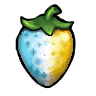
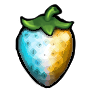
Add ghostberry and ghostberry2 images to JacopoHelper GUI atlas
- Introduced new PNG files for ghostberry and ghostberry2 to enhance the graphical assets in the JacopoHelper interface.

Changed region(s): [[0.1875, 0.3125, 0.7812, 0.9062], [0.4062, 0.3125, 0.5625, 0.4062]]

diff --git a/Source/Journal/JournalData.cs b/Source/Journal/JournalData.cs
@@ -1,4 +1,5 @@
 using System.Collections.Generic;
+using Microsoft.Xna.Framework;
 using Monocle;
 
 namespace Celeste.Mod.JacopoHelper;
@@ -8,13 +9,14 @@ public static class JournalData {
         ModeProperties mp = AreaData.Areas[area.ID].Mode[(int) area.Mode];
         AreaModeStats stats = SaveData.Instance.Areas[area.ID].Modes[(int) area.Mode];
         HashSet<string> found = SaveData.Instance.GetCheckpoints(area);
+        Session session = (Engine.Scene as Level)?.Session;
 
         var list = new List<CheckpointInfo>();
         var byIndex = new Dictionary<int, CheckpointInfo>();
 
         for (int i = 0; i <= mp.Checkpoints.Length; i++) {
             string level = i == 0 ? null : mp.Checkpoints[i - 1].Level;
-            if (i > 0 && !found.Contains(level) && onlyDisc) continue;
+            if (i > 0 && onlyDisc && !found.Contains(level)) continue;
 
             int num = i == 0 ? mp.StartStrawberries : mp.Checkpoints[i - 1].Strawberries;
             var info = new CheckpointInfo {
@@ -26,12 +28,17 @@ public static class JournalData {
             foreach (char c in info.Image) seed = seed * 31 + c;
             var rng = new System.Random(seed);
             info.Rotation = (rng.Next(2) == 0 ? -1 : 1) * (0.05f + (float) rng.NextDouble() * 0.15f);
-            info.Offset = new Microsoft.Xna.Framework.Vector2(rng.Next(-16, 17), rng.Next(-16, 17));
+            info.Offset = new Vector2(rng.Next(-16, 17), rng.Next(-16, 17));
 
             for (int b = 0; b < num; b++) {
                 EntityData e = mp.StrawberriesByCheckpoint[i, b];
-                bool got = e != null && stats.Strawberries.Contains(new EntityID(e.Level.Name, e.ID));
-                info.Berries.Add(new BerryInfo { Collected = got });
+                bool saved = false, thisRun = false;
+                if (e != null) {
+                    var id = new EntityID(e.Level.Name, e.ID);
+                    saved = stats.Strawberries.Contains(id);
+                    thisRun = session != null && session.Strawberries.Contains(id);
+                }
+                info.Berries.Add(new BerryInfo { Collected = thisRun, Ghost = saved && !thisRun });
             }
 
             list.Add(info);
@@ -44,13 +51,18 @@ public static class JournalData {
                 if (mp.Checkpoints[i].Level == level.Name) cp = i + 1;
 
             if (!byIndex.TryGetValue(cp, out CheckpointInfo info)) continue;
+
             foreach (EntityData e in level.Entities) {
-                if (e.Name == "JacopoHelper/UntrackedCoreBerry") {
-                    info.Berries.Add(new BerryInfo {
-                        Untracked = true,
-                        Collected = stats.Strawberries.Contains(new EntityID(level.Name, e.ID))
-                    });
-                }
+                if (e.Name != "JacopoHelper/UntrackedCoreBerry") continue;
+
+                var id = new EntityID(level.Name, e.ID);
+                bool saved = stats.Strawberries.Contains(id);
+                bool thisRun = session != null && session.Strawberries.Contains(id);
+                info.Berries.Add(new BerryInfo {
+                    Untracked = true,
+                    Collected = thisRun,
+                    Ghost = saved && !thisRun
+                });
             }
         }
 

diff --git a/Source/Journal/OuiJournalCheckpoints.cs b/Source/Journal/OuiJournalCheckpoints.cs
@@ -61,13 +61,25 @@ public class OuiJournalCheckpoints : OuiJournalPage {
         MTexture normal = GFX.Gui["collectables/strawberry"];
         MTexture untracked = GFX.Gui.Has("JacopoHelper/coreberry")
             ? GFX.Gui["JacopoHelper/coreberry"] : normal;
+        MTexture ghost = GFX.Gui.Has("JacopoHelper/ghostberry")
+            ? GFX.Gui["JacopoHelper/ghostberry"] : normal;
 
         float spacing = 53f;
         float startX = x - (cp.Berries.Count - 1) * spacing / 2f;
         for (int i = 0; i < cp.Berries.Count; i++) {
             BerryInfo b = cp.Berries[i];
-            Color c = b.Collected ? Color.White : Color.Black * 0.3f;
-            (b.Untracked ? untracked : normal).DrawCentered(new Vector2(startX + i * spacing, y + 25f), c, 0.5f);
+
+            MTexture tex;
+            Color c;
+            if (b.Ghost) {
+                tex = ghost;
+                c = Color.White;
+            } else {
+                tex = b.Untracked ? untracked : normal;
+                c = b.Collected ? Color.White : Color.Black * 0.3f;
+            }
+
+            tex.DrawCentered(new Vector2(startX + i * spacing, y + 25f), c, 0.5f);
         }
 
         Draw.SpriteBatch.End();

diff --git a/Source/Journal/CheckpointInfo.cs b/Source/Journal/CheckpointInfo.cs
@@ -5,6 +5,7 @@ namespace Celeste.Mod.JacopoHelper;
 public class BerryInfo {
     public bool Collected;
     public bool Untracked;
+    public bool Ghost;
 }
 
 public class CheckpointInfo {
